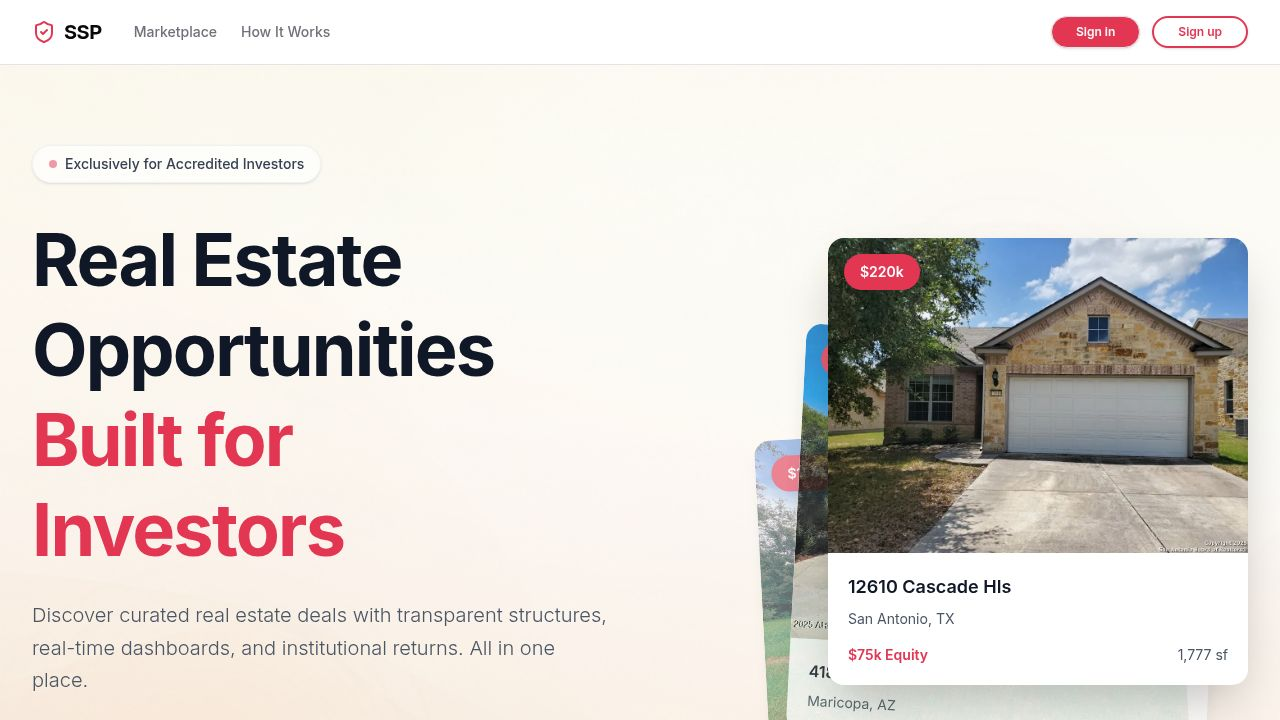
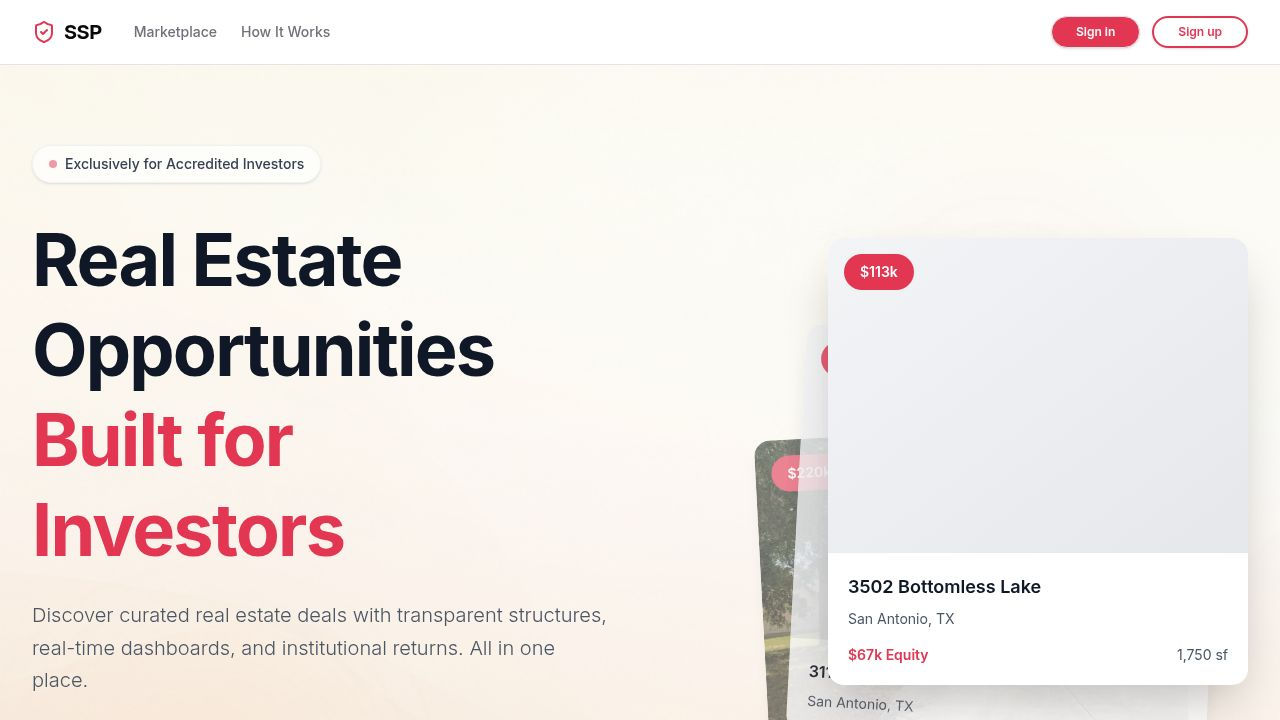
Improve property display on the homepage with image fallbacks
Update Home.tsx to use a helper function for property images, providing fallbacks to gallery photos and adding onError handlers for image loading failures. Also corrects a routing link for the mobile card.

Replit-Commit-Author: Agent
Replit-Commit-Session-Id: 15cc9920-d5a7-490c-9020-196e37f0fc03
Replit-Commit-Checkpoint-Type: full_checkpoint
Replit-Commit-Event-Id: 98ab49aa-3236-41a1-8735-a31e8951a9b7
Replit-Commit-Screenshot-Url: https://storage.googleapis.com/screenshot-production-us-central1/d55dd652-99d2-4825-982f-d56a203b91df/15cc9920-d5a7-490c-9020-196e37f0fc03/UDVHadV

Changed region(s): [[0.5625, 0.3056, 1.0, 1.0], [0.6562, 0.8861, 0.7188, 0.9167], [0.9062, 0.8861, 0.9375, 0.9167]]

diff --git a/client/src/pages/Home.tsx b/client/src/pages/Home.tsx
@@ -17,6 +17,11 @@ export default function Home() {
   // Hero stack shows first 3 needs_funding properties
   const heroStackProperties = needsFundingProperties.slice(0, 3);
   
+  // Helper to get image URL - use mainPhotoUrl or fallback to first gallery photo
+  const getPropertyImage = (property: any) => {
+    return property?.mainPhotoUrl || (property?.galleryPhotoUrls?.[0] ?? null);
+  };
+  
   // Featured Opportunities shows next 3 different needs_funding properties
   const featuredProperties = needsFundingProperties.slice(3, 6);
   
@@ -129,11 +134,12 @@ export default function Home() {
                   {heroStackProperties[2] && (
                     <div className="absolute left-4 top-8 w-[280px] bg-white rounded-xl shadow-md overflow-hidden transform -rotate-3 opacity-50 z-10">
                       <div className="aspect-[16/10] bg-gradient-to-br from-gray-100 to-gray-200 relative">
-                        {heroStackProperties[2]?.mainPhotoUrl && (
+                        {getPropertyImage(heroStackProperties[2]) && (
                           <img 
-                            src={heroStackProperties[2].mainPhotoUrl}
+                            src={getPropertyImage(heroStackProperties[2])}
                             alt={heroStackProperties[2].address}
                             className="w-full h-full object-cover"
+                            onError={(e) => { e.currentTarget.style.display = 'none'; }}
                           />
                         )}
                       </div>
@@ -144,11 +150,12 @@ export default function Home() {
                   {heroStackProperties[1] && (
                     <div className="absolute left-2 top-4 w-[280px] bg-white rounded-xl shadow-lg overflow-hidden transform rotate-2 opacity-70 z-20">
                       <div className="aspect-[16/10] bg-gradient-to-br from-gray-100 to-gray-200 relative">
-                        {heroStackProperties[1]?.mainPhotoUrl && (
+                        {getPropertyImage(heroStackProperties[1]) && (
                           <img 
-                            src={heroStackProperties[1].mainPhotoUrl}
+                            src={getPropertyImage(heroStackProperties[1])}
                             alt={heroStackProperties[1].address}
                             className="w-full h-full object-cover"
+                            onError={(e) => { e.currentTarget.style.display = 'none'; }}
                           />
                         )}
                       </div>
@@ -156,14 +163,15 @@ export default function Home() {
                   )}
                   
                   {/* Card 1 - Front */}
-                  <a href={`/properties/${heroStackProperties[0]?.id}`} className="block">
+                  <a href={`/property/${heroStackProperties[0]?.id}`} className="block">
                     <div className="absolute left-0 top-0 w-[280px] bg-white rounded-xl shadow-2xl overflow-hidden z-30">
                       <div className="aspect-[16/10] bg-gradient-to-br from-gray-100 to-gray-200 relative">
-                        {heroStackProperties[0]?.mainPhotoUrl && (
+                        {getPropertyImage(heroStackProperties[0]) && (
                           <img 
-                            src={heroStackProperties[0].mainPhotoUrl}
+                            src={getPropertyImage(heroStackProperties[0])}
                             alt={heroStackProperties[0].address}
                             className="w-full h-full object-cover"
+                            onError={(e) => { e.currentTarget.style.display = 'none'; }}
                           />
                         )}
                         <div className="absolute top-3 left-3 bg-primary text-white px-3 py-1.5 rounded-full text-xs font-semibold">
@@ -202,11 +210,12 @@ export default function Home() {
                       onMouseLeave={() => setHoveredCard(null)}
                     >
                       <div className="aspect-[4/3] bg-gradient-to-br from-gray-100 to-gray-200 relative">
-                        {heroStackProperties[2]?.mainPhotoUrl && (
+                        {getPropertyImage(heroStackProperties[2]) && (
                           <img 
-                            src={heroStackProperties[2].mainPhotoUrl}
+                            src={getPropertyImage(heroStackProperties[2])}
                             alt={heroStackProperties[2].address}
                             className="w-full h-full object-cover"
+                            onError={(e) => { e.currentTarget.style.display = 'none'; }}
                           />
                         )}
                         <div className="absolute top-4 left-4 bg-primary text-white px-4 py-2 rounded-full text-sm font-semibold">
@@ -230,11 +239,12 @@ export default function Home() {
                       onMouseLeave={() => setHoveredCard(null)}
                     >
                       <div className="aspect-[4/3] bg-gradient-to-br from-gray-100 to-gray-200 relative">
-                        {heroStackProperties[1]?.mainPhotoUrl && (
+                        {getPropertyImage(heroStackProperties[1]) && (
                           <img 
-                            src={heroStackProperties[1].mainPhotoUrl}
+                            src={getPropertyImage(heroStackProperties[1])}
                             alt={heroStackProperties[1].address}
                             className="w-full h-full object-cover"
+                            onError={(e) => { e.currentTarget.style.display = 'none'; }}
                           />
                         )}
                         <div className="absolute top-4 left-4 bg-primary text-white px-4 py-2 rounded-full text-sm font-semibold">
@@ -257,11 +267,12 @@ export default function Home() {
                     onMouseLeave={() => setHoveredCard(null)}
                   >
                     <div className="aspect-[4/3] bg-gradient-to-br from-gray-100 to-gray-200 relative">
-                      {heroStackProperties[0]?.mainPhotoUrl && (
+                      {getPropertyImage(heroStackProperties[0]) && (
                         <img 
-                          src={heroStackProperties[0].mainPhotoUrl}
+                          src={getPropertyImage(heroStackProperties[0])}
                           alt={heroStackProperties[0].address}
                           className="w-full h-full object-cover"
+                          onError={(e) => { e.currentTarget.style.display = 'none'; }}
                         />
                       )}
                       <div className="absolute top-4 left-4 bg-primary text-white px-4 py-2 rounded-full text-sm font-semibold">
